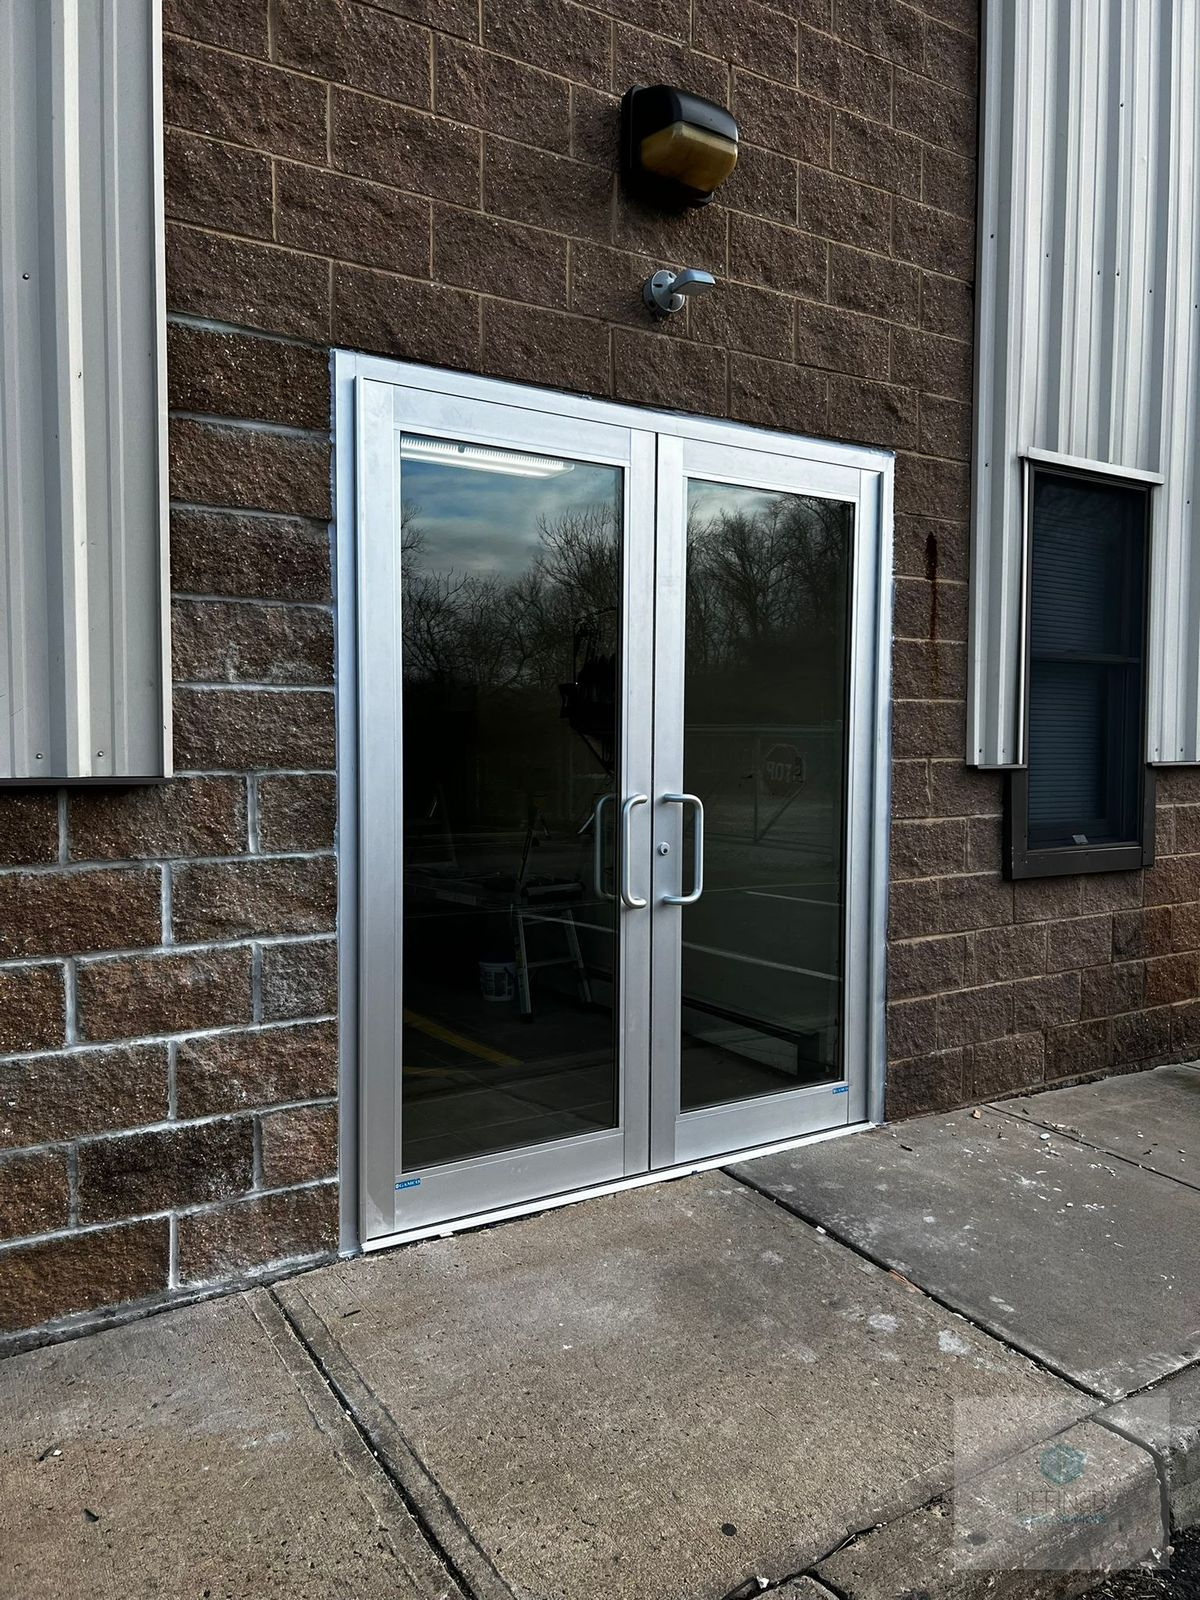
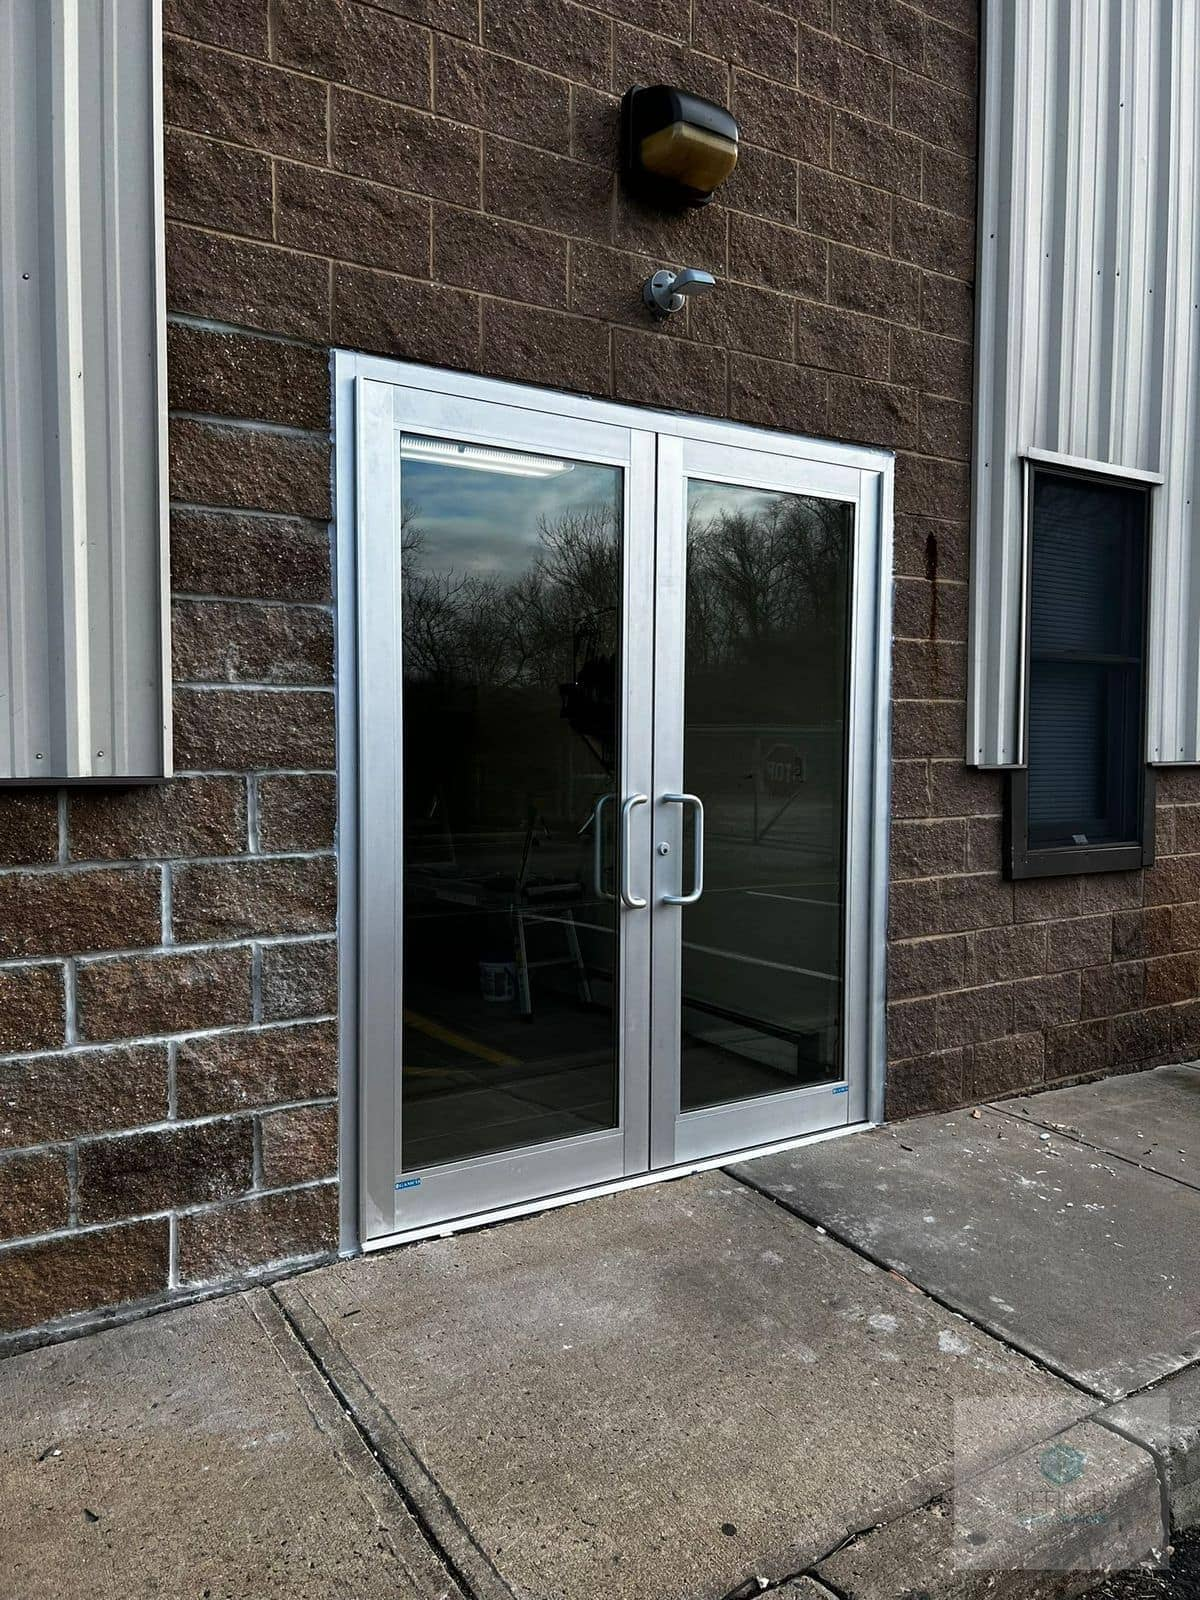
Website scan fixes: gallery thumbnails, H1s, quote link, image sizes, sitemap, robots
- Add 33 missing gallery thumbnails (600px, same settings as the sweep)
- Page titles on Services, Gallery, About, Contact, Quote are now H1 (same look)
- Remove stray space in the Smart Glazier quote iframe URL
- Compress hero-3 (812KB to 369KB), exterior-5 and exterior-6
- Build script writes sitemap.xml with the build date
- robots.txt keeps internal files out of search; preview.html set to noindex

Approved by Efraim 2026-11-03 (fix list items 1 to 6).

Claude-Session: https://claude.ai/code/session_017Bpm4PE8HZJg3d95vapijN

diff --git a/site-template.html b/site-template.html
@@ -462,7 +462,7 @@
 <div id="page-services" data-title="Glass Services | Shower Doors, Mirrors, Railings, Storefronts | Defined Glass" class="page-section">
   <section class="dark-bg" style="padding:7rem 2rem 4rem;text-align:center;color:#fff;">
     <p style="color:#B8E4FF;font-size:.75rem;font-weight:700;letter-spacing:.3em;text-transform:uppercase;margin-bottom:1rem;">What We Offer</p>
-    <h2 style="font-family:Montserrat,sans-serif;font-weight:900;font-size:clamp(2.5rem,6vw,4rem);margin-bottom:1.5rem;">Our Services</h2>
+    <h1 style="font-family:Montserrat,sans-serif;font-weight:900;font-size:clamp(2.5rem,6vw,4rem);margin-bottom:1.5rem;">Our Services</h1>
     <p style="color:#d1d5db;font-size:1rem;max-width:580px;margin:0 auto;line-height:1.7;">From custom residential glass to large-scale commercial glazing systems — we bring craftsmanship and precision to every project across NJ, PA, and NY.</p>
   </section>
   <!-- Residential -->
@@ -556,7 +556,7 @@
 <div id="page-gallery" data-title="Project Gallery | Defined Glass Creations" class="page-section">
   <section class="dark-bg" style="padding:7rem 2rem 4rem;text-align:center;color:#fff;">
     <p style="color:#B8E4FF;font-size:.75rem;font-weight:700;letter-spacing:.3em;text-transform:uppercase;margin-bottom:1rem;">Our Work</p>
-    <h2 style="font-family:Montserrat,sans-serif;font-weight:900;font-size:clamp(2.5rem,6vw,4rem);margin-bottom:1.5rem;">Project Gallery</h2>
+    <h1 style="font-family:Montserrat,sans-serif;font-weight:900;font-size:clamp(2.5rem,6vw,4rem);margin-bottom:1.5rem;">Project Gallery</h1>
     <p style="color:#d1d5db;font-size:1rem;max-width:540px;margin:0 auto;">Browse completed projects across residential and commercial categories.</p>
   </section>
   <!-- Filter tabs -->
@@ -581,7 +581,7 @@
 <div id="page-about" data-title="About Us | Defined Glass Creations - Howell, NJ" class="page-section">
   <section class="dark-bg" style="padding:7rem 2rem 4rem;text-align:center;color:#fff;">
     <p style="color:#B8E4FF;font-size:.75rem;font-weight:700;letter-spacing:.3em;text-transform:uppercase;margin-bottom:1rem;">Our Story</p>
-    <h2 style="font-family:Montserrat,sans-serif;font-weight:900;font-size:clamp(2.5rem,6vw,4rem);margin-bottom:1.5rem;">About Us</h2>
+    <h1 style="font-family:Montserrat,sans-serif;font-weight:900;font-size:clamp(2.5rem,6vw,4rem);margin-bottom:1.5rem;">About Us</h1>
     <p style="color:#d1d5db;font-size:1rem;max-width:580px;margin:0 auto;">A team built on craftsmanship, driven by values, and committed to delivering glass solutions that speak for themselves.</p>
   </section>
   <!-- Mission -->
@@ -657,7 +657,7 @@
 <div id="page-contact" data-title="Contact Defined Glass Creations | Howell, NJ Showroom" class="page-section">
   <section class="dark-bg" style="padding:7rem 2rem 4rem;text-align:center;color:#fff;">
     <p style="color:#B8E4FF;font-size:.75rem;font-weight:700;letter-spacing:.3em;text-transform:uppercase;margin-bottom:1rem;">Get In Touch</p>
-    <h2 style="font-family:Montserrat,sans-serif;font-weight:900;font-size:clamp(2.5rem,6vw,4rem);margin-bottom:1.5rem;">Contact Us</h2>
+    <h1 style="font-family:Montserrat,sans-serif;font-weight:900;font-size:clamp(2.5rem,6vw,4rem);margin-bottom:1.5rem;">Contact Us</h1>
     <p style="color:#d1d5db;font-size:1rem;">Have a question or ready to start your project? We'd love to hear from you.</p>
   </section>
   <section style="padding:5rem 2rem;background:#fff;">
@@ -715,14 +715,14 @@
 <div id="page-quote" data-title="Get A Free Quote | Defined Glass Creations" class="page-section">
   <section class="dark-bg quote-hero" style="padding:7rem 2rem 4rem;text-align:center;color:#fff;">
     <p style="color:#B8E4FF;font-size:.75rem;font-weight:700;letter-spacing:.3em;text-transform:uppercase;margin-bottom:1rem;">Start Your Project</p>
-    <h2 style="font-family:Montserrat,sans-serif;font-weight:900;font-size:clamp(2.5rem,6vw,4rem);margin-bottom:1.5rem;">Get A Quote</h2>
+    <h1 style="font-family:Montserrat,sans-serif;font-weight:900;font-size:clamp(2.5rem,6vw,4rem);margin-bottom:1.5rem;">Get A Quote</h1>
     <p style="color:#d1d5db;font-size:1rem;max-width:580px;margin:0 auto;line-height:1.7;">Tell us about your project and we'll get back to you with a clear, no-obligation quote — usually within 24 hours.</p>
   </section>
   <section class="quote-wrap" style="padding:3rem 2rem;background:#f8f8f8;">
     <div style="max-width:900px;margin:0 auto;">
       <!-- iframe embed -->
       <div class="quote-card" style="background:#fff;border-radius:16px;box-shadow:0 2px 20px rgba(0,0,0,.06);border:1px solid #f0f0f0;overflow:hidden;padding:1rem;">
-        <iframe id="quoteFrame" src="https://webusd.smartglazier.com/DEF/LiteApp/?xti=31/ #/" width="100%" style="border:none;min-height:600px;display:block;" title="Defined Glass Quote Tool"></iframe>
+        <iframe id="quoteFrame" src="https://webusd.smartglazier.com/DEF/LiteApp/?xti=31/#/" width="100%" style="border:none;min-height:600px;display:block;" title="Defined Glass Quote Tool"></iframe>
       </div>
       <!-- Trust badges -->
       <div style="display:flex;justify-content:center;gap:3rem;margin-top:2rem;flex-wrap:wrap;">

diff --git a/quote/index.html b/quote/index.html
@@ -213,14 +213,14 @@
 <div id="page-quote" data-title="Get A Free Quote | Defined Glass Creations" class="page-section active">
   <section class="dark-bg quote-hero" style="padding:7rem 2rem 4rem;text-align:center;color:#fff;">
     <p style="color:#B8E4FF;font-size:.75rem;font-weight:700;letter-spacing:.3em;text-transform:uppercase;margin-bottom:1rem;">Start Your Project</p>
-    <h2 style="font-family:Montserrat,sans-serif;font-weight:900;font-size:clamp(2.5rem,6vw,4rem);margin-bottom:1.5rem;">Get A Quote</h2>
+    <h1 style="font-family:Montserrat,sans-serif;font-weight:900;font-size:clamp(2.5rem,6vw,4rem);margin-bottom:1.5rem;">Get A Quote</h1>
     <p style="color:#d1d5db;font-size:1rem;max-width:580px;margin:0 auto;line-height:1.7;">Tell us about your project and we'll get back to you with a clear, no-obligation quote — usually within 24 hours.</p>
   </section>
   <section class="quote-wrap" style="padding:3rem 2rem;background:#f8f8f8;">
     <div style="max-width:900px;margin:0 auto;">
       <!-- iframe embed -->
       <div class="quote-card" style="background:#fff;border-radius:16px;box-shadow:0 2px 20px rgba(0,0,0,.06);border:1px solid #f0f0f0;overflow:hidden;padding:1rem;">
-        <iframe id="quoteFrame" src="https://webusd.smartglazier.com/DEF/LiteApp/?xti=31/ #/" width="100%" style="border:none;min-height:600px;display:block;" title="Defined Glass Quote Tool"></iframe>
+        <iframe id="quoteFrame" src="https://webusd.smartglazier.com/DEF/LiteApp/?xti=31/#/" width="100%" style="border:none;min-height:600px;display:block;" title="Defined Glass Quote Tool"></iframe>
       </div>
       <!-- Trust badges -->
       <div style="display:flex;justify-content:center;gap:3rem;margin-top:2rem;flex-wrap:wrap;">

diff --git a/scripts/build-pages.js b/scripts/build-pages.js
@@ -79,5 +79,13 @@ for (const [slug, p] of Object.entries(PAGES)) {
   if (slug === 'home') { fs.writeFileSync('404.html', html); console.log('wrote 404.html'); }
 }
 
+// Sitemap: lastmod = build date, so it stays current on every change
+const PRIORITY = { home: '1.0', services: '0.9', gallery: '0.9', about: '0.7', contact: '0.8', quote: '0.9' };
+const today = new Date().toISOString().slice(0, 10);
+const urls = Object.entries(PAGES).map(([slug, p]) =>
+  `  <url><loc>${p.dir ? `${BASE}/${p.dir}/` : `${BASE}/`}</loc><lastmod>${today}</lastmod><priority>${PRIORITY[slug] || '0.5'}</priority></url>`);
+fs.writeFileSync('sitemap.xml', `<?xml version="1.0" encoding="UTF-8"?>\n<urlset xmlns="http://www.sitemaps.org/schemas/sitemap/0.9">\n${urls.join('\n')}\n</urlset>\n`);
+console.log('wrote sitemap.xml');
+
 execSync('npx --yes tailwindcss@3.4.17 -c scripts/tailwind.site.config.js -i scripts/site.tailwind.css -o site.css --minify', { stdio: 'inherit' });
 console.log('wrote site.css');

diff --git a/services/index.html b/services/index.html
@@ -197,7 +197,7 @@
 <div id="page-services" data-title="Glass Services | Shower Doors, Mirrors, Railings, Storefronts | Defined Glass" class="page-section active">
   <section class="dark-bg" style="padding:7rem 2rem 4rem;text-align:center;color:#fff;">
     <p style="color:#B8E4FF;font-size:.75rem;font-weight:700;letter-spacing:.3em;text-transform:uppercase;margin-bottom:1rem;">What We Offer</p>
-    <h2 style="font-family:Montserrat,sans-serif;font-weight:900;font-size:clamp(2.5rem,6vw,4rem);margin-bottom:1.5rem;">Our Services</h2>
+    <h1 style="font-family:Montserrat,sans-serif;font-weight:900;font-size:clamp(2.5rem,6vw,4rem);margin-bottom:1.5rem;">Our Services</h1>
     <p style="color:#d1d5db;font-size:1rem;max-width:580px;margin:0 auto;line-height:1.7;">From custom residential glass to large-scale commercial glazing systems — we bring craftsmanship and precision to every project across NJ, PA, and NY.</p>
   </section>
   <!-- Residential -->

diff --git a/about/index.html b/about/index.html
@@ -205,7 +205,7 @@
 <div id="page-about" data-title="About Us | Defined Glass Creations - Howell, NJ" class="page-section active">
   <section class="dark-bg" style="padding:7rem 2rem 4rem;text-align:center;color:#fff;">
     <p style="color:#B8E4FF;font-size:.75rem;font-weight:700;letter-spacing:.3em;text-transform:uppercase;margin-bottom:1rem;">Our Story</p>
-    <h2 style="font-family:Montserrat,sans-serif;font-weight:900;font-size:clamp(2.5rem,6vw,4rem);margin-bottom:1.5rem;">About Us</h2>
+    <h1 style="font-family:Montserrat,sans-serif;font-weight:900;font-size:clamp(2.5rem,6vw,4rem);margin-bottom:1.5rem;">About Us</h1>
     <p style="color:#d1d5db;font-size:1rem;max-width:580px;margin:0 auto;">A team built on craftsmanship, driven by values, and committed to delivering glass solutions that speak for themselves.</p>
   </section>
   <!-- Mission -->

diff --git a/contact/index.html b/contact/index.html
@@ -209,7 +209,7 @@
 <div id="page-contact" data-title="Contact Defined Glass Creations | Howell, NJ Showroom" class="page-section active">
   <section class="dark-bg" style="padding:7rem 2rem 4rem;text-align:center;color:#fff;">
     <p style="color:#B8E4FF;font-size:.75rem;font-weight:700;letter-spacing:.3em;text-transform:uppercase;margin-bottom:1rem;">Get In Touch</p>
-    <h2 style="font-family:Montserrat,sans-serif;font-weight:900;font-size:clamp(2.5rem,6vw,4rem);margin-bottom:1.5rem;">Contact Us</h2>
+    <h1 style="font-family:Montserrat,sans-serif;font-weight:900;font-size:clamp(2.5rem,6vw,4rem);margin-bottom:1.5rem;">Contact Us</h1>
     <p style="color:#d1d5db;font-size:1rem;">Have a question or ready to start your project? We'd love to hear from you.</p>
   </section>
   <section style="padding:5rem 2rem;background:#fff;">

diff --git a/gallery/index.html b/gallery/index.html
@@ -201,7 +201,7 @@
 <div id="page-gallery" data-title="Project Gallery | Defined Glass Creations" class="page-section active">
   <section class="dark-bg" style="padding:7rem 2rem 4rem;text-align:center;color:#fff;">
     <p style="color:#B8E4FF;font-size:.75rem;font-weight:700;letter-spacing:.3em;text-transform:uppercase;margin-bottom:1rem;">Our Work</p>
-    <h2 style="font-family:Montserrat,sans-serif;font-weight:900;font-size:clamp(2.5rem,6vw,4rem);margin-bottom:1.5rem;">Project Gallery</h2>
+    <h1 style="font-family:Montserrat,sans-serif;font-weight:900;font-size:clamp(2.5rem,6vw,4rem);margin-bottom:1.5rem;">Project Gallery</h1>
     <p style="color:#d1d5db;font-size:1rem;max-width:540px;margin:0 auto;">Browse completed projects across residential and commercial categories.</p>
   </section>
   <!-- Filter tabs -->

diff --git a/preview.html b/preview.html
@@ -1,6 +1,7 @@
 <!DOCTYPE html>
 <html lang="en">
 <head>
+  <meta name="robots" content="noindex, nofollow" />
   <meta charset="UTF-8" />
   <meta name="viewport" content="width=device-width, initial-scale=1.0" />
   <title>Defined Glass Creations — Site Preview</title>
